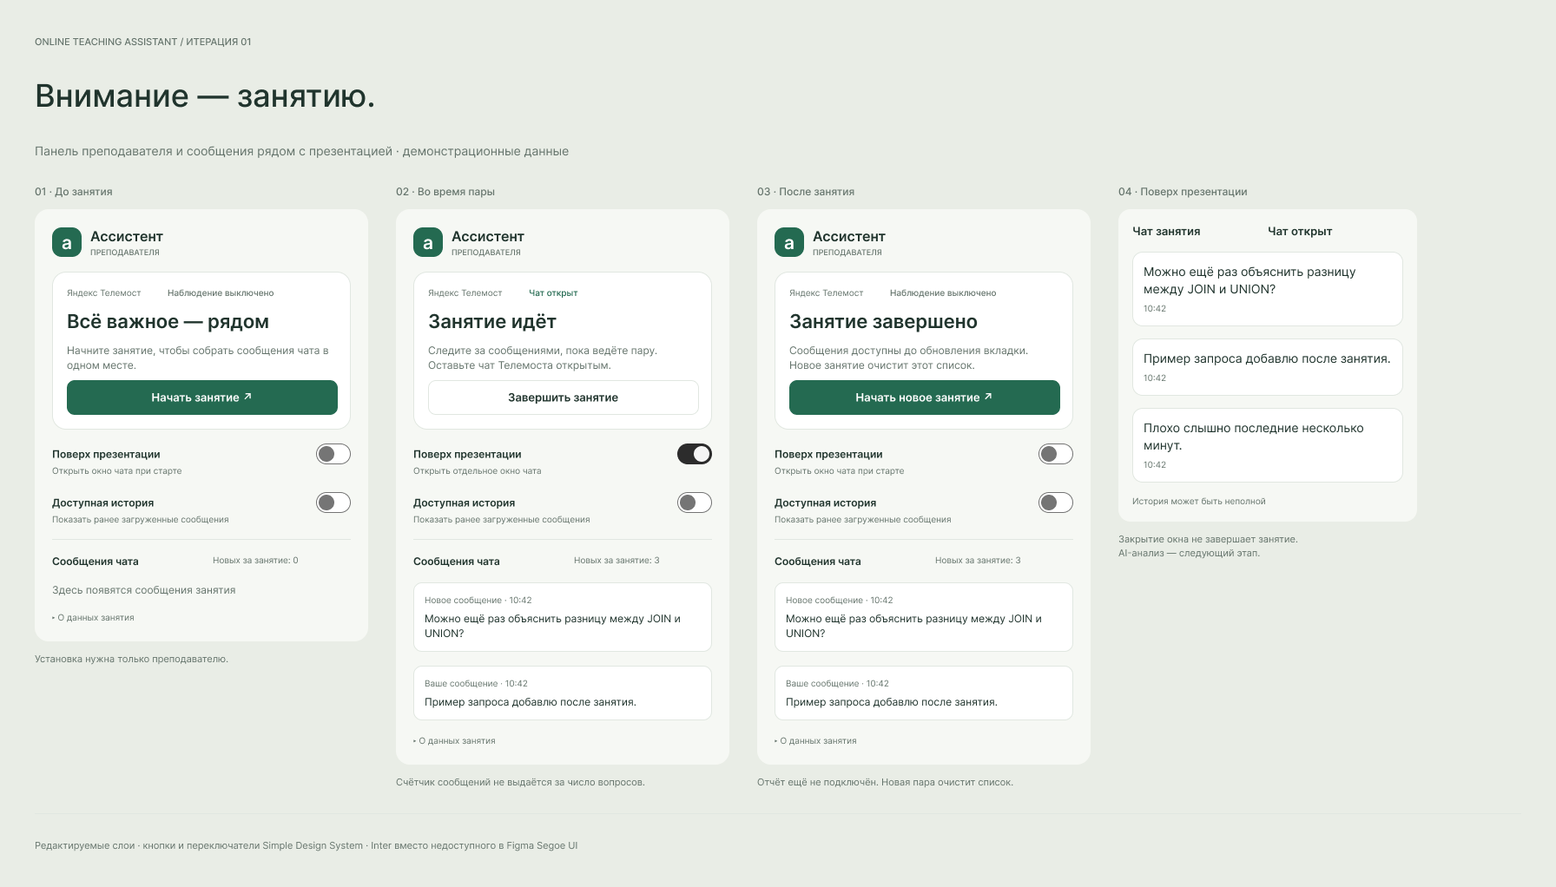
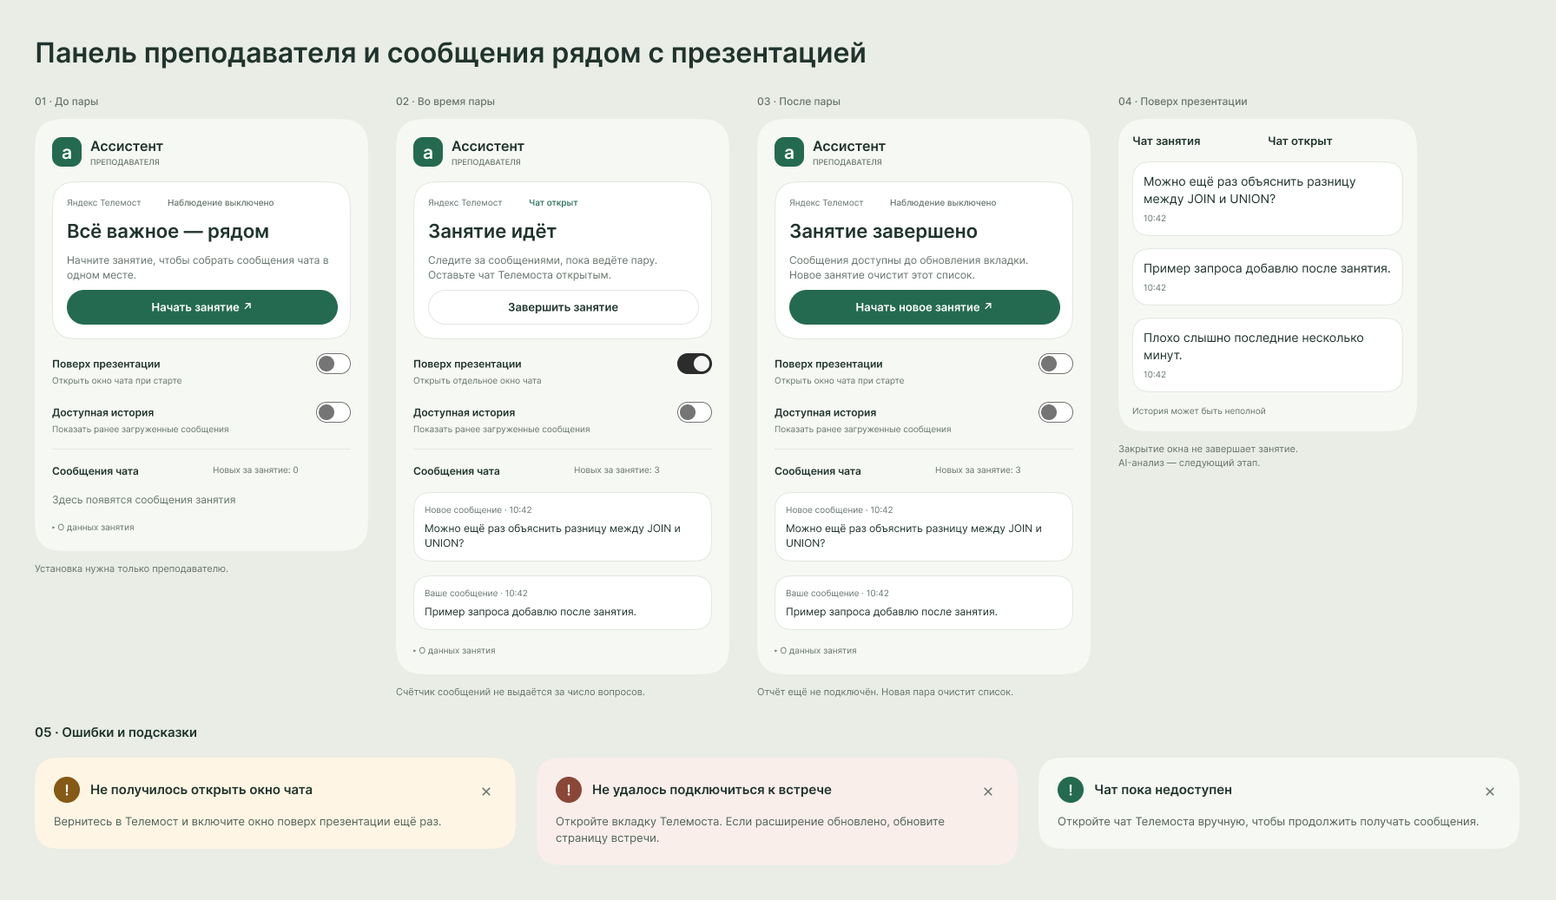
style: soften UI shapes and refine Figma review states

diff --git a/preview/index.html b/preview/index.html
@@ -1,10 +1,10 @@
 <!doctype html>
 <html lang="ru"><head><meta charset="utf-8"><meta name="viewport" content="width=device-width,initial-scale=1"><title>Ассистент · просмотр дизайна</title>
 <style>
-*{box-sizing:border-box}body{margin:0;background:#e9ede6;color:#20342d;font:14px/1.5 'Segoe UI',system-ui,sans-serif}.review{max-width:1120px;margin:0 auto;padding:35px 40px}.top{display:flex;align-items:center;justify-content:space-between;gap:16px;border-bottom:1px solid #cbd4c9;padding-bottom:20px}.label{font-size:10px;letter-spacing:2px;text-transform:uppercase;color:#536d5c}.review h1{font-size:34px;letter-spacing:-1.3px;font-weight:500;line-height:1.2;margin:9px 0}.top p{color:#56695c;font-size:12px;margin:0}.iteration{font-size:11px;border:1px solid #bdcabb;padding:7px 12px;border-radius:20px;white-space:nowrap}.toolbar{display:flex;flex-wrap:wrap;align-items:center;gap:8px;margin:22px 0}.toolbar span{font-size:11px;color:#526457;margin-right:5px}.toolbar button,.compose button{font:inherit;font-size:11px;background:transparent;border:1px solid #bdcabb;border-radius:7px;padding:7px 11px;cursor:pointer;color:#20342d}.toolbar button[aria-pressed=true]{background:#246a51;color:white;border-color:#246a51}.toolbar button:hover,.compose button:hover{background:#d6e2d3}.toolbar button:focus-visible,input:focus-visible{outline:3px solid #246a51;outline-offset:3px}.boards{display:grid;grid-template-columns:384px minmax(280px,1fr);gap:54px;align-items:start}.board-label{display:flex;gap:12px;align-items:center;margin:0 0 12px;font-size:11px;color:#526457}.board-label b{font-weight:500;color:#20342d}.number{font-size:10px;border:1px solid #bdcabb;padding:2px 7px;border-radius:20px}.frame{background:#f6f8f4;border:1px solid #cbd4c9;box-shadow:0 14px 35px #354c3610;border-radius:16px;overflow:hidden}#popup{display:block}iframe{width:100%;height:330px;border:0;display:block}.stage{background:#dce4d8;border:1px solid #cbd4c9;border-radius:14px;padding:20px;position:relative}.slide-label{font-size:9px;letter-spacing:1.6px;color:#566d59}.slide-title{font-size:26px;line-height:1.25;letter-spacing:-.7px;font-weight:500;margin:12px 0 24px;max-width:240px}.pip-frame{max-width:340px;margin-left:auto;border-radius:12px;overflow:hidden;box-shadow:0 8px 24px #30433315;background:#f6f8f4}.windowbar{display:flex;justify-content:space-between;background:white;border-bottom:1px solid #e1e7e1;padding:7px 12px;font-size:9px;color:#65746c}.annotation{color:#56695c;font-size:11px;line-height:1.6;margin:13px 0;max-width:365px}.compose{display:flex;gap:7px;margin-top:12px}.compose input{min-width:0;flex:1;background:#f6f8f4;border:1px solid #bdcabb;border-radius:7px;padding:9px;font:inherit;font-size:11px}.bottom{display:flex;justify-content:space-between;gap:12px;font-size:10px;color:#56695c;margin-top:24px;border-top:1px solid #cbd4c9;padding-top:14px}.pip-off{padding:35px 15px;color:#65746c;font-size:12px;text-align:center}[hidden]{display:none!important}@media(max-width:900px){.review{padding:24px}.boards{gap:25px;grid-template-columns:384px minmax(240px,1fr)}}@media(max-width:720px){.boards{display:flex;flex-direction:column;align-items:center}.boards>div{width:100%;max-width:384px}.top{align-items:start}.review h1{font-size:26px}.iteration{display:none}.review{padding:20px 14px}.bottom{flex-wrap:wrap}}@media(max-width:400px){.boards>div{max-width:100%}}
+*{box-sizing:border-box}body{margin:0;background:#e9ede6;color:#20342d;font:14px/1.5 'Segoe UI',system-ui,sans-serif}.review{max-width:1120px;margin:0 auto;padding:35px 40px}.top{display:flex;align-items:center;justify-content:space-between;gap:16px;border-bottom:1px solid #cbd4c9;padding-bottom:20px}.label{font-size:10px;letter-spacing:2px;text-transform:uppercase;color:#536d5c}.review h1{font-size:34px;letter-spacing:-1.3px;font-weight:500;line-height:1.2;margin:9px 0}.top p{color:#56695c;font-size:12px;margin:0}.iteration{font-size:11px;border:1px solid #bdcabb;padding:7px 12px;border-radius:20px;white-space:nowrap}.toolbar{display:flex;flex-wrap:wrap;align-items:center;gap:8px;margin:22px 0}.toolbar span{font-size:11px;color:#526457;margin-right:5px}.toolbar button,.compose button{font:inherit;font-size:11px;background:transparent;border:1px solid #bdcabb;border-radius:7px;padding:7px 11px;cursor:pointer;color:#20342d}.toolbar button[aria-pressed=true]{background:#246a51;color:white;border-color:#246a51}.toolbar button:hover,.compose button:hover{background:#d6e2d3}.toolbar button:focus-visible,input:focus-visible{outline:3px solid #246a51;outline-offset:3px}.boards{display:grid;grid-template-columns:384px minmax(280px,1fr);gap:54px;align-items:start}.board-label{display:flex;gap:12px;align-items:center;margin:0 0 12px;font-size:11px;color:#526457}.board-label b{font-weight:500;color:#20342d}.number{font-size:10px;border:1px solid #bdcabb;padding:2px 7px;border-radius:20px}.frame{background:#f6f8f4;border:1px solid #cbd4c9;box-shadow:0 14px 35px #354c3610;border-radius:28px;overflow:hidden}#popup{display:block}iframe{width:100%;height:330px;border:0;display:block}.stage{background:#dce4d8;border:1px solid #cbd4c9;border-radius:24px;padding:20px;position:relative}.slide-label{font-size:9px;letter-spacing:1.6px;color:#566d59}.slide-title{font-size:26px;line-height:1.25;letter-spacing:-.7px;font-weight:500;margin:12px 0 24px;max-width:240px}.pip-frame{max-width:340px;margin-left:auto;border-radius:28px;overflow:hidden;box-shadow:0 8px 24px #30433315;background:#f6f8f4}.windowbar{display:flex;justify-content:space-between;background:white;border-bottom:1px solid #e1e7e1;padding:7px 12px;font-size:9px;color:#65746c}.annotation{color:#56695c;font-size:11px;line-height:1.6;margin:13px 0;max-width:365px}.compose{display:flex;gap:7px;margin-top:12px}.compose input{min-width:0;flex:1;background:#f6f8f4;border:1px solid #bdcabb;border-radius:7px;padding:9px;font:inherit;font-size:11px}.bottom{display:flex;justify-content:space-between;gap:12px;font-size:10px;color:#56695c;margin-top:24px;border-top:1px solid #cbd4c9;padding-top:14px}.pip-off{padding:35px 15px;color:#65746c;font-size:12px;text-align:center}[hidden]{display:none!important}@media(max-width:900px){.review{padding:24px}.boards{gap:25px;grid-template-columns:384px minmax(240px,1fr)}}@media(max-width:720px){.boards{display:flex;flex-direction:column;align-items:center}.boards>div{width:100%;max-width:384px}.top{align-items:start}.review h1{font-size:26px}.iteration{display:none}.review{padding:20px 14px}.bottom{flex-wrap:wrap}}@media(max-width:400px){.boards>div{max-width:100%}}
 </style></head><body><main class="review">
 <div class="top"><div><div class="label">Online teaching assistant / UI concept</div><h1>Внимание — занятию.</h1><p>Панель преподавателя и чат поверх презентации</p></div><span class="iteration">Итерация 01 · 30 октября 2026</span></div>
-<nav class="toolbar" aria-label="Состояния макета"><span>Посмотреть сценарий</span><button data-scene="ready" aria-pressed="false">До занятия</button><button data-scene="active" aria-pressed="true">Во время пары</button><button data-scene="ended" aria-pressed="false">После занятия</button><button data-scene="unavailable" aria-pressed="false">Чат недоступен</button><button data-scene="unsupported" aria-pressed="false">Без PiP</button></nav>
+<nav class="toolbar" aria-label="Состояния макета"><span>Посмотреть сценарий</span><button data-scene="ready" aria-pressed="false">До пары</button><button data-scene="active" aria-pressed="true">Во время пары</button><button data-scene="ended" aria-pressed="false">После пары</button><button data-scene="unavailable" aria-pressed="false">Чат недоступен</button><button data-scene="error" aria-pressed="false">Ошибка окна</button><button data-scene="unsupported" aria-pressed="false">Без PiP</button></nav>
 <div class="boards"><div><p class="board-label"><span class="number">01</span><b>Управление занятием</b><span>popup · 384 px</span></p><div class="frame"><div id="popup"></div></div><p class="annotation">Одно главное действие. История и отдельное окно включаются независимо. Счётчик учитывает только новые наблюдения.</p></div>
 <div><p class="board-label"><span class="number">02</span><b>Чат рядом с материалом</b></p><div class="stage"><div class="slide-label">ПРИМЕР ПРЕЗЕНТАЦИИ</div><div class="slide-title">Базы данных.<br>От связей к запросам</div><div class="pip-frame"><div class="windowbar"><span>Отдельное окно чата</span><span aria-hidden="true">− &nbsp; □ &nbsp; ×</span></div><iframe id="pip-preview" title="Макет окна чата"></iframe><div id="pip-off" class="pip-off" hidden>Включите «Поверх презентации», чтобы открыть чат.</div></div></div><p class="annotation">Вспомогательное окно не заменяет чат Телемоста. Его закрытие не завершает занятие.</p><form class="compose" id="compose"><input id="sample-text" aria-label="Тестовое сообщение" placeholder="Тестовое сообщение для макета…" maxlength="2000"><button type="submit">Добавить</button></form><p class="annotation" id="demo-status" role="status">Демонстрационные сообщения · без подключения к встрече</p></div></div>
 <div class="bottom"><span>Локальный интерактивный макет · тот же интерфейс, что в расширении</span><span>AI-анализ и итоговый отчёт — следующий этап</span></div>

diff --git a/src/styles.ts b/src/styles.ts
@@ -1,9 +1,9 @@
 export const tokens = `--ink:#20342d;--muted:#65746c;--green:#246a51;--soft:#eaf3ed;--line:#e1e7e1;--paper:#fff;--bg:#f6f8f4;--warn:#865b19;font:13px/1.5 'Segoe UI',system-ui,sans-serif;color:var(--ink)`;
 export const styles = `
 :host,body{${tokens}}*{box-sizing:border-box}[hidden]{display:none!important}body{margin:0;background:var(--bg)}button,input{font:inherit}button{cursor:pointer}button:disabled{opacity:.5;cursor:default}button:focus-visible,input:focus-visible,summary:focus-visible{outline:3px solid #8db79e;outline-offset:3px}
-#panel{width:384px;max-width:100%;max-height:600px;overflow-y:auto;background:var(--bg);padding:20px}header,.brand,.section-head,.message-meta{display:flex;align-items:center;justify-content:space-between;gap:10px}.brand{justify-content:flex-start;gap:10px}.brand-mark{width:34px;height:34px;display:grid;place-items:center;background:var(--green);color:white;border-radius:11px;font-size:21px;font-weight:600}.brand strong{font-size:16px;letter-spacing:-.3px}.eyebrow{display:block;font-size:9px;letter-spacing:1.6px;color:var(--muted);font-weight:600}.version{color:var(--muted);font-size:11px}
-.session{background:var(--paper);border:1px solid var(--line);border-radius:16px;padding:16px;margin-top:18px}.session-top{display:flex;align-items:center;justify-content:space-between;gap:8px}.platform{font-size:11px;color:var(--muted)}.badge{font-size:10px;color:var(--green);background:var(--soft);padding:4px 8px;border-radius:20px;white-space:nowrap}.badge[data-tone=warning]{color:var(--warn);background:#faf0da}.badge[data-tone=neutral]{color:var(--muted);background:var(--bg)}h1{font-size:22px;line-height:1.2;letter-spacing:-.7px;margin:14px 0 7px;font-weight:600}p{margin:0}#hint{color:var(--muted);font-size:12px;min-height:36px}.primary{width:100%;border:0;border-radius:9px;background:var(--green);color:white;padding:11px 12px;margin-top:14px;font-weight:600}.primary:hover{background:#19553f}.primary.finish{background:#fff;color:var(--ink);border:1px solid var(--line)}.primary.finish:hover{background:var(--bg)}
+#panel{width:384px;max-width:100%;max-height:600px;overflow-y:auto;border-radius:28px;background:var(--bg);padding:20px}header,.brand,.section-head,.message-meta{display:flex;align-items:center;justify-content:space-between;gap:10px}.brand{justify-content:flex-start;gap:10px}.brand-mark{width:34px;height:34px;display:grid;place-items:center;background:var(--green);color:white;border-radius:11px;font-size:21px;font-weight:600}.brand strong{font-size:16px;letter-spacing:-.3px}.eyebrow{display:block;font-size:9px;letter-spacing:1.6px;color:var(--muted);font-weight:600}.version{color:var(--muted);font-size:11px}
+.session{background:var(--paper);border:1px solid var(--line);border-radius:24px;padding:16px;margin-top:18px}.session-top{display:flex;align-items:center;justify-content:space-between;gap:8px}.platform{font-size:11px;color:var(--muted)}.badge{font-size:10px;color:var(--green);background:var(--soft);padding:4px 8px;border-radius:20px;white-space:nowrap}.badge[data-tone=warning]{color:var(--warn);background:#faf0da}.badge[data-tone=neutral]{color:var(--muted);background:var(--bg)}h1{font-size:22px;line-height:1.2;letter-spacing:-.7px;margin:14px 0 7px;font-weight:600}p{margin:0}#hint{color:var(--muted);font-size:12px;min-height:36px}.primary{width:100%;border:0;border-radius:20px;background:var(--green);color:white;padding:11px 12px;margin-top:14px;font-weight:600}.primary:hover{background:#19553f}.primary.finish{background:#fff;color:var(--ink);border:1px solid var(--line)}.primary.finish:hover{background:var(--bg)}
 .options{padding:10px 0 5px}.option{display:flex;align-items:center;gap:12px;padding:10px 0;cursor:pointer}.option-copy{flex:1;min-width:0}.option-copy strong{display:block;font-size:12px;font-weight:600}.option-copy small{display:block;color:var(--muted);font-size:11px;margin-top:2px}.switch{appearance:none;flex:none;width:32px;height:19px;border-radius:12px;background:#c8d2c9;margin:0;position:relative;cursor:pointer}.switch:before{content:'';position:absolute;top:3px;left:3px;width:13px;height:13px;border-radius:50%;background:white;box-shadow:0 1px 2px #0002}.switch:checked{background:var(--green)}.switch:checked:before{left:16px}.switch:disabled{opacity:.45;cursor:default}
-.section-head{border-top:1px solid var(--line);padding-top:13px;margin-top:3px}.section-head h2{font-size:12px;margin:0;font-weight:600}.counter{font-size:10px;color:var(--muted)}#messages{list-style:none;margin:10px 0 0;padding:0;max-height:166px;overflow-y:auto;overflow-wrap:anywhere;scrollbar-width:thin}#messages li{background:var(--paper);border:1px solid var(--line);border-radius:10px;padding:10px 12px;margin:0 0 7px}.message-meta{font-size:10px;color:var(--muted);margin-bottom:5px}.message-meta .origin{color:var(--warn)}.message-text{white-space:pre-wrap;font-size:12px;line-height:1.5}.own{color:var(--green)}#empty{padding:18px 8px;text-align:center;color:var(--muted);font-size:12px}#history-note,#limit{font-size:10px;color:var(--muted);margin:7px 0}#error{font-size:11px;background:#faf0da;color:var(--warn);border-radius:8px;padding:9px;margin:5px 0 10px}footer{margin-top:12px;color:var(--muted);font-size:10px}summary{cursor:pointer;font-size:10px}details p{padding-top:7px;line-height:1.5}#launcher,#hide{border:1px solid var(--line);background:white;color:var(--ink);padding:7px 10px;border-radius:8px}
+.section-head{border-top:1px solid var(--line);padding-top:13px;margin-top:3px}.section-head h2{font-size:12px;margin:0;font-weight:600}.counter{font-size:10px;color:var(--muted)}#messages{list-style:none;margin:10px 0 0;padding:0;max-height:166px;overflow-y:auto;overflow-wrap:anywhere;scrollbar-width:thin}#messages li{background:var(--paper);border:1px solid var(--line);border-radius:18px;padding:10px 12px;margin:0 0 7px}.message-meta{font-size:10px;color:var(--muted);margin-bottom:5px}.message-meta .origin{color:var(--warn)}.message-text{white-space:pre-wrap;font-size:12px;line-height:1.5}.own{color:var(--green)}#empty{padding:18px 8px;text-align:center;color:var(--muted);font-size:12px}#history-note,#limit{font-size:10px;color:var(--muted);margin:7px 0}#error{font-size:11px;background:#faf0da;color:var(--warn);border-radius:8px;padding:9px;margin:5px 0 10px}footer{margin-top:12px;color:var(--muted);font-size:10px}summary{cursor:pointer;font-size:10px}details p{padding-top:7px;line-height:1.5}#launcher,#hide{border:1px solid var(--line);background:white;color:var(--ink);padding:7px 10px;border-radius:8px}
 @media(max-width:340px){#panel{padding:14px}h1{font-size:20px}.counter{font-size:9px}.session{padding:13px}}
 `;

diff --git a/src/pip-styles.ts b/src/pip-styles.ts
@@ -1,5 +1,5 @@
 import { tokens } from './styles';
 export const pipStyles = `
 *{box-sizing:border-box}html,body{height:100%;margin:0}body{${tokens};background:var(--bg);display:flex;flex-direction:column}
-header{display:flex;align-items:center;justify-content:space-between;gap:8px;padding:15px 16px;background:var(--paper);border-bottom:1px solid var(--line)}header strong{font-size:14px;letter-spacing:-.2px}#status{font-size:10px;color:var(--green);background:var(--soft);padding:4px 8px;border-radius:20px}#feed{flex:1;min-height:0;overflow:auto;padding:14px;overflow-anchor:none}ol{list-style:none;padding:0;margin:0}li{background:var(--paper);border:1px solid var(--line);border-radius:12px;padding:12px 14px;margin-bottom:9px;overflow-wrap:anywhere}p{margin:0;white-space:pre-wrap;font-size:14px;line-height:1.6}.time{display:block;text-align:right;font-size:10px;color:var(--muted);margin-top:5px}small{display:block;color:var(--warn);font-size:10px;margin-bottom:5px}#empty{color:var(--muted);padding:30px 12px;text-align:center;font-size:13px}footer{font-size:10px;color:var(--muted);padding:9px 14px;border-top:1px solid var(--line)}[hidden]{display:none!important}
+header{display:flex;align-items:center;justify-content:space-between;gap:8px;padding:15px 16px;background:var(--paper);border-bottom:1px solid var(--line)}header strong{font-size:14px;letter-spacing:-.2px}#status{font-size:10px;color:var(--green);background:var(--soft);padding:4px 8px;border-radius:20px}#feed{flex:1;min-height:0;overflow:auto;padding:14px;overflow-anchor:none}ol{list-style:none;padding:0;margin:0}li{background:var(--paper);border:1px solid var(--line);border-radius:18px;padding:12px 14px;margin-bottom:9px;overflow-wrap:anywhere}p{margin:0;white-space:pre-wrap;font-size:14px;line-height:1.6}.time{display:block;text-align:right;font-size:10px;color:var(--muted);margin-top:5px}small{display:block;color:var(--warn);font-size:10px;margin-bottom:5px}#empty{color:var(--muted);padding:30px 12px;text-align:center;font-size:13px}footer{font-size:10px;color:var(--muted);padding:9px 14px;border-top:1px solid var(--line)}[hidden]{display:none!important}
 `;

diff --git a/preview/demo.ts b/preview/demo.ts
@@ -15,7 +15,7 @@ const view = createView(root, {
   start() { state = { ...state, active: true, ended: false, chat: 'available', messages: [], pip: state.pipPreferred }; render(); },
   stop() { state.active = false; state.ended = true; render(); },
   history(value) { state.history = value; render(); },
-  pip(value) { state.pipPreferred = value; state.pip = state.active && value; render(); }
+  pip(value) { state.pipPreferred = value; state.pip = state.active && value; if (value) state.error = ''; render(); }
 }, true);
 function render() {
   view.render(state); pipView.render(state);
@@ -28,7 +28,7 @@ function render() {
 }
 document.querySelectorAll<HTMLButtonElement>('[data-scene]').forEach(button => button.onclick = () => {
   const scene = button.dataset.scene;
-  state = { ...state, active: scene !== 'ready' && scene !== 'ended', ended: scene === 'ended', messages: scene === 'ready' ? [] : samples(), chat: scene === 'unavailable' ? 'unavailable' : 'available', history: false, error: '', supported: scene !== 'unsupported', pip: scene !== 'ready' && scene !== 'unsupported', pipPreferred: scene !== 'ready' && scene !== 'unsupported' };
+  state = { ...state, active: scene !== 'ready' && scene !== 'ended', ended: scene === 'ended', messages: scene === 'ready' ? [] : samples(), chat: scene === 'unavailable' ? 'unavailable' : 'available', history: false, error: scene === 'error' ? 'Не удалось открыть окно. Вернитесь в Телемост и попробуйте ещё раз.' : '', supported: scene !== 'unsupported', pip: scene !== 'ready' && scene !== 'unsupported' && scene !== 'error', pipPreferred: scene !== 'ready' && scene !== 'unsupported' && scene !== 'error' };
   render(); button.setAttribute('aria-pressed', 'true');
 });
 document.querySelector<HTMLFormElement>('#compose')!.onsubmit = event => {

diff --git a/DESIGN.md b/DESIGN.md
@@ -4,6 +4,10 @@
 
 Редактируемый [макет в Figma](https://www.figma.com/design/MpXXCTtNm3ftGmr1Kb2XXw?node-id=3-166): до занятия, во время пары, после завершения и отдельное окно чата. Использованы компоненты кнопок и переключателей Simple Design System. В Figma шрифт Inter заменяет недоступный Segoe UI; в расширении остаётся системный шрифт. Макет Figma статический; поведение проверяется в локальном интерактивном просмотре.
 
+После просмотра обновлены скругления: внешние панели 28 px, карточка состояния 24 px, сообщения 18 px и кнопки с округлыми краями. В Figma оставлен один крупный контрастный заголовок, технический футер удалён, подписи состояний используют «пара».
+
+Внизу макета показаны три варианта всплывающих уведомлений: ошибка открытия окна чата, отсутствие подключения к встрече и недоступный чат. Причины ошибок уже представлены в каркасе текстовыми состояниями; всплывающая форма и кнопка закрытия пока являются предложением дизайна, а не реализованным поведением. В интерактивном просмотре добавлен сценарий «Ошибка окна» с существующим сообщением внутри панели.
+
 ## Основной сценарий
 
 Преподаватель открывает popup, выбирает отдельное окно при необходимости и начинает пару. Во время объяснения читает доступные сообщения рядом с презентацией. После завершения может просмотреть сообщения текущей вкладки, но готового итогового отчёта пока нет.
